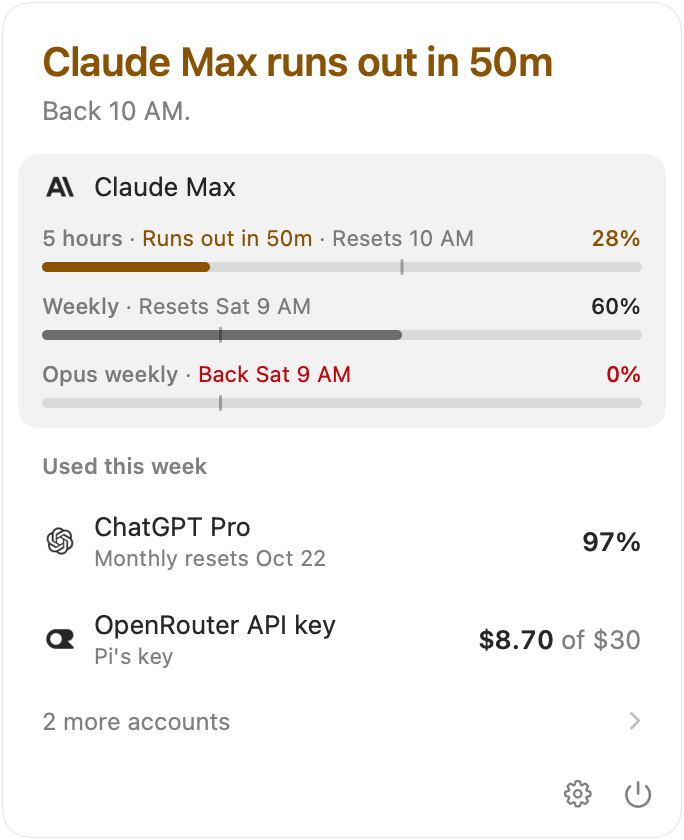
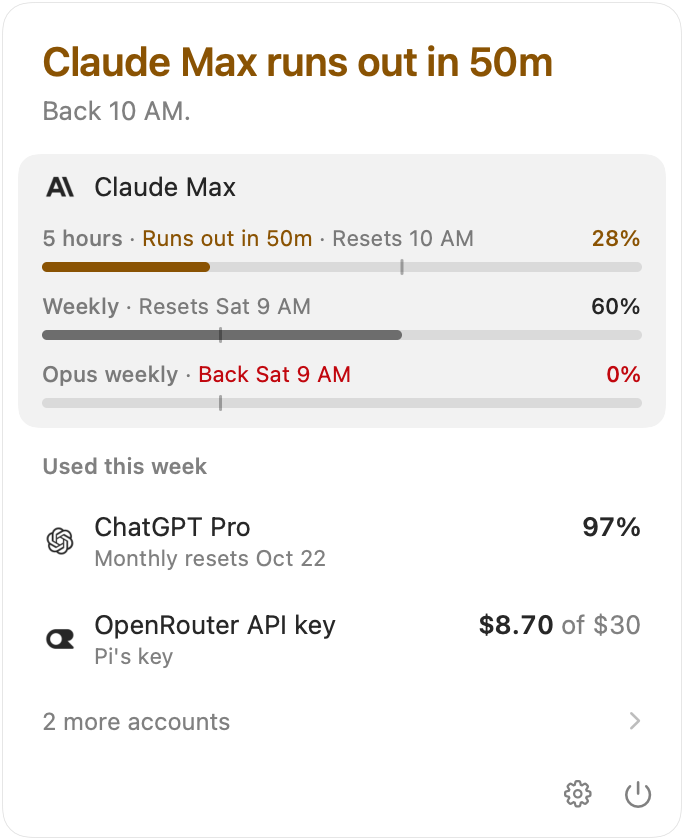
Give account row status full width and remove double-spaced row spacers

Changed region(s): [[0.7061, 0.7119, 0.9518, 0.7738], [0.8289, 0.619, 0.9518, 0.681]]

diff --git a/apps/macos/Sources/Panel/AccountRow.swift b/apps/macos/Sources/Panel/AccountRow.swift
@@ -27,37 +27,38 @@ struct AccountRow: View {
             HStack(alignment: .center, spacing: Row.gap) {
                 Logo(provider: row.provider, size: Row.logo)
                 VStack(alignment: .leading, spacing: 1) {
-                    AccountTitle(title: row.title, label: row.label, labelStyle: .secondary)
+                    HStack(alignment: .center, spacing: 6) {
+                        AccountTitle(title: row.title, label: row.label, labelStyle: .secondary)
+                            .frame(maxWidth: .infinity, alignment: .leading)
+                        // Always given its layout slot so showing it on hover never shifts text.
+                        Button(action: hide) { Image(systemName: "eye.slash") }
+                            .buttonStyle(IconButton(width: 22, height: 16))
+                            .disabled(stopped)
+                            .opacity(hover ? 1 : 0)
+                            .allowsHitTesting(hover)
+                            .accessibilityHidden(!hover)
+                            .help("Hide \(row.called) from the menu bar and the panel")
+                            .accessibilityLabel("Hide \(row.called)")
+                        if !lines {
+                            let left = Text(row.figure).foregroundStyle(row.standing.ink(lasting: .primary))
+                            let then = Text(row.figureThen.map { " \($0)" } ?? "")
+                                .font(.name)
+                                .foregroundStyle(.secondary)
+                            Text("\(left)\(then)")
+                                .font(.figure)
+                                .contentTransition(.numericText())
+                                .fixedSize()
+                                .transition(appears)
+                                .accessibilityLabel(row.figureSpoken)
+                        }
+                    }
                     if !lines {
                         Text(row.status)
                             .font(.small)
                             .foregroundStyle(row.standing.ink(lasting: .secondary))
-                            .lineLimit(1)
+                            .fixedSize(horizontal: false, vertical: true)
                             .transition(appears)
                     }
-                }
-                .layoutPriority(1)
-                Spacer(minLength: 8)
-                // Always given its layout slot so showing it on hover never shifts text.
-                Button(action: hide) { Image(systemName: "eye.slash") }
-                    .buttonStyle(IconButton(width: 22, height: 16))
-                    .disabled(stopped)
-                    .opacity(hover ? 1 : 0)
-                    .allowsHitTesting(hover)
-                    .accessibilityHidden(!hover)
-                    .help("Hide \(row.called) from the menu bar and the panel")
-                    .accessibilityLabel("Hide \(row.called)")
-                if !lines {
-                    let left = Text(row.figure).foregroundStyle(row.standing.ink(lasting: .primary))
-                    let then = Text(row.figureThen.map { " \($0)" } ?? "")
-                        .font(.name)
-                        .foregroundStyle(.secondary)
-                    Text("\(left)\(then)")
-                        .font(.figure)
-                        .contentTransition(.numericText())
-                        .fixedSize()
-                        .transition(appears)
-                        .accessibilityLabel(row.figureSpoken)
                 }
             }
             .contentShape(Rectangle())
@@ -153,9 +154,10 @@ private struct LimitLine: View {
             HStack(alignment: .firstTextBaseline, spacing: 8) {
                 ViewThatFits(in: .horizontal) {
                     line([ahead, window].compactMap { $0 }).lineLimit(1)
-                    line([ahead ?? window].compactMap { $0 }).lineLimit(1).truncationMode(.tail)
+                    line([ahead ?? window].compactMap { $0 }).lineLimit(1)
+                    line([ahead ?? window].compactMap { $0 }).fixedSize(horizontal: false, vertical: true)
                 }
-                Spacer(minLength: 8)
+                .frame(maxWidth: .infinity, alignment: .leading)
                 Text("\(left)\(size)")
                     .monospacedDigit()
                     .contentTransition(.numericText())
@@ -274,7 +276,7 @@ private struct UsedMostRow: View {
                         .font(.small.monospacedDigit())
                         .foregroundStyle(.secondary)
                 }
-                Spacer(minLength: 4)
+                .frame(maxWidth: .infinity, alignment: .leading)
                 if copied {
                     Text("Copied")
                         .font(.small)
@@ -346,6 +348,7 @@ struct AccountTitle: View {
                     .foregroundStyle(labelStyle)
                     .lineLimit(1)
                     .truncationMode(.middle)
+                    .help(label)
             }
         }
     }

diff --git a/apps/macos/Sources/Settings/AgentsTab.swift b/apps/macos/Sources/Settings/AgentsTab.swift
@@ -41,7 +41,7 @@ private struct AgentRow: View {
                         .help(agent.configured.map { "Configured to run \($0)" } ?? "")
                 }
             }
-            Spacer(minLength: 8)
+            .frame(maxWidth: .infinity, alignment: .leading)
             if let changing = agent.changing {
                 Text(changing)
                     .font(.small)
@@ -78,7 +78,7 @@ private struct AgentSnippets: View {
                         Text("\(agent.name) status line & guard")
                             .font(.line)
                             .foregroundStyle(.secondary)
-                        Spacer(minLength: 6)
+                            .frame(maxWidth: .infinity, alignment: .leading)
                         Image(systemName: "chevron.right")
                             .font(.system(size: 10, weight: .semibold))
                             .foregroundStyle(.tertiary)
@@ -130,7 +130,7 @@ private struct SnippetRow: View {
                     .foregroundStyle(.secondary)
                     .fixedSize(horizontal: false, vertical: true)
             }
-            Spacer(minLength: 8)
+            .frame(maxWidth: .infinity, alignment: .leading)
             Button(copied ? "Copied" : "Copy JSON") {
                 copyToPasteboard(snippet.json)
                 clearCopy?.cancel()

diff --git a/apps/macos/Sources/Panel/UnusedAccounts.swift b/apps/macos/Sources/Panel/UnusedAccounts.swift
@@ -46,8 +46,10 @@ private struct Fold: View {
         Button { withAnimation(spring, toggle) } label: {
             Hover { hover in
                 HStack(spacing: 8) {
-                    Text(text).font(.line).foregroundStyle(.secondary)
-                    Spacer(minLength: 6)
+                    Text(text)
+                        .font(.line)
+                        .foregroundStyle(.secondary)
+                        .frame(maxWidth: .infinity, alignment: .leading)
                     Image(systemName: "chevron.right")
                         .font(.system(size: 10, weight: .semibold))
                         .foregroundStyle(.tertiary)
@@ -82,7 +84,7 @@ private struct HiddenRow: View {
                 titleStyle: .secondary,
                 subtitleStyle: .tertiary
             )
-            Spacer(minLength: 8)
+            .frame(maxWidth: .infinity, alignment: .leading)
             Button("Show") {
                 withAnimation(spring) {
                     bridge.send(.setHidden(id: account.id, hidden: false))

diff --git a/apps/macos/Sources/Settings/SettingRow.swift b/apps/macos/Sources/Settings/SettingRow.swift
@@ -26,8 +26,10 @@ struct SettingRow<Control: View>: View {
 
     var body: some View {
         HStack(spacing: Row.gap) {
-            Text(title).font(.name)
-            Spacer(minLength: 8)
+            Text(title)
+                .font(.name)
+                .fixedSize(horizontal: false, vertical: true)
+                .frame(maxWidth: .infinity, alignment: .leading)
             control()
         }
         .padding(Row.padding)

diff --git a/apps/macos/Sources/Settings/AccountsTab.swift b/apps/macos/Sources/Settings/AccountsTab.swift
@@ -34,7 +34,7 @@ private struct AccountSwitch: View {
         HStack(spacing: Row.gap) {
             Logo(provider: account.provider, size: Row.logo)
             AccountName(title: account.title, label: account.label, via: account.via)
-            Spacer(minLength: 8)
+                .frame(maxWidth: .infinity, alignment: .leading)
             Switch(
                 label: "Show \(account.called)",
                 on: Binding(

diff --git a/apps/macos/Sources/Panel/FirstPage.swift b/apps/macos/Sources/Panel/FirstPage.swift
@@ -174,7 +174,7 @@ private struct ConnectNudge: View {
                         .help(offer.configured.map { "Configured to run \($0)" } ?? "")
                 }
             }
-            Spacer(minLength: 8)
+            .frame(maxWidth: .infinity, alignment: .leading)
             if offer.changing {
                 Spinner()
                     .accessibilityElement()
